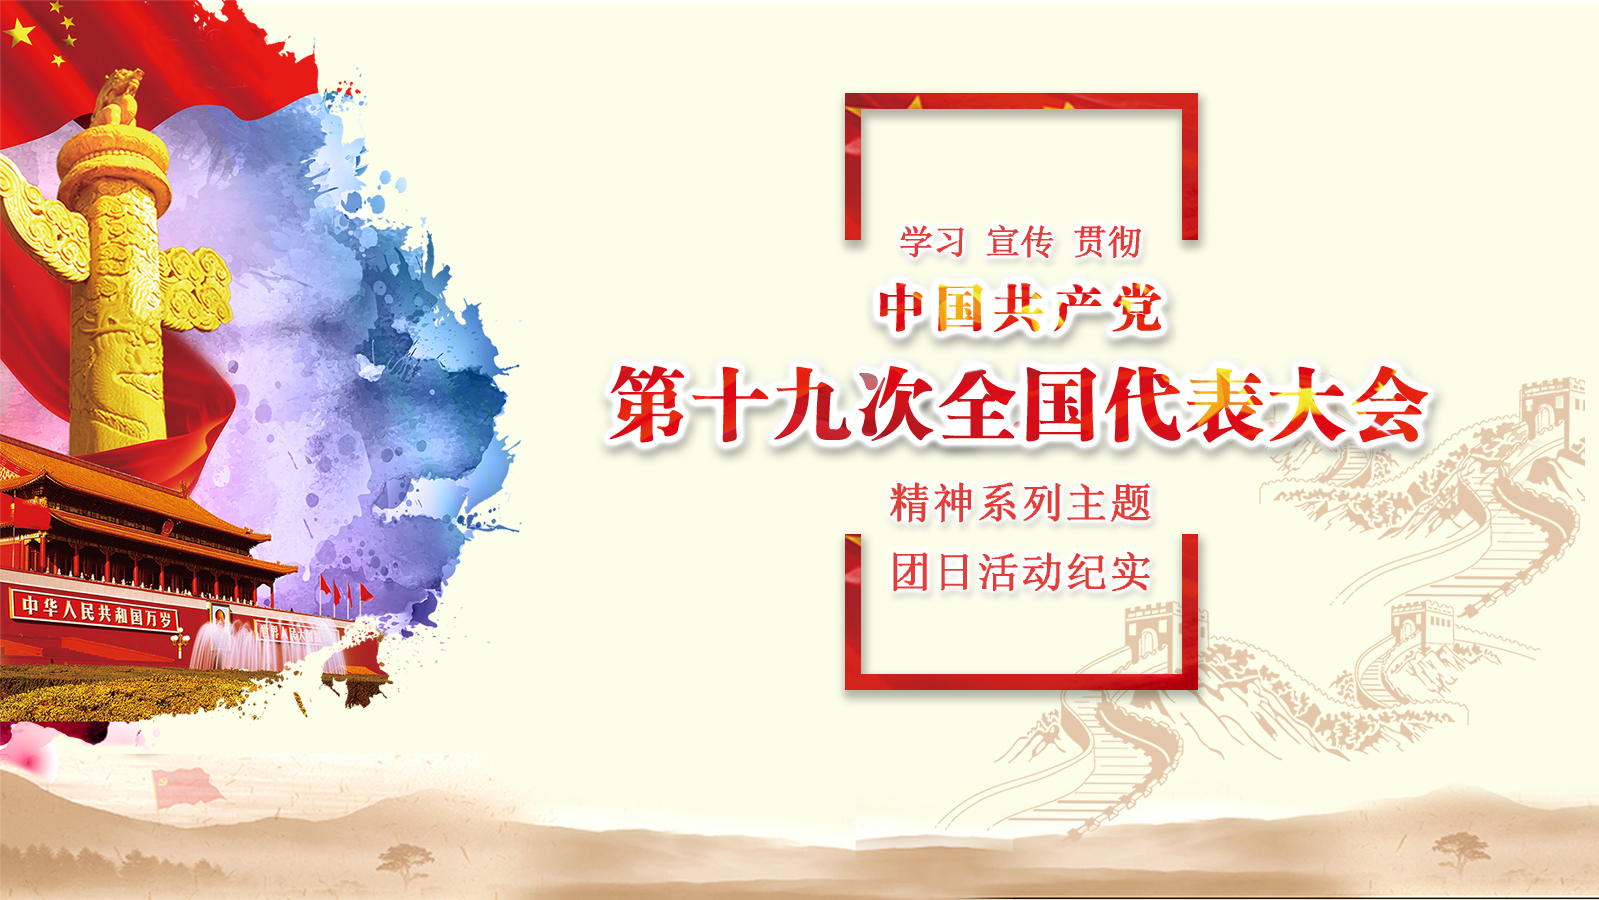
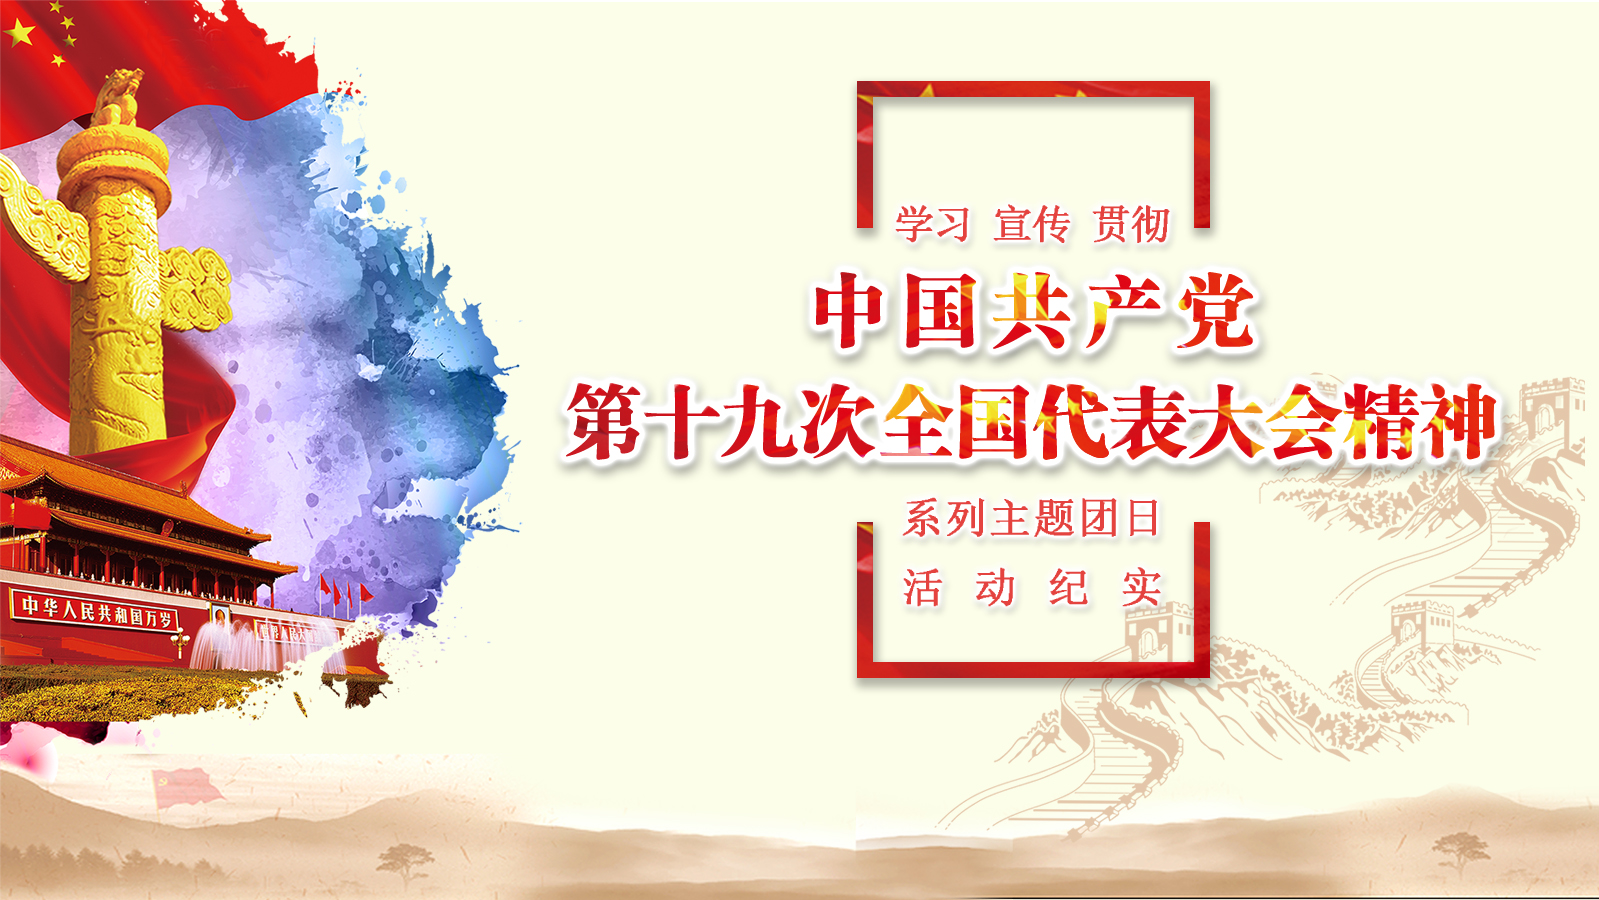
[FIX]修改首页照片

Changed region(s): [[0.3371, 0.0622, 0.95, 0.7778]]

diff --git a/src/main/resources/static/index.html b/src/main/resources/static/index.html
@@ -20,7 +20,7 @@
 
       </div>
       <div class="adv" style="overflow:hidden"><!--添加overflow，后续自己添在css中-->
-        <img src="http://oy5ic3yhc.bkt.clouddn.com/FjhSz0Tc4OQxunE8FyZZFk9ZPYuD" alt="">
+        <img src="http://oy5ic3yhc.bkt.clouddn.com/FgIEgTWABooLmNoVGQS-NMVcr6rs" alt="">
       </div>
     	<div class="content" style="overflow:hidden"><!--添加overflow，后续自己添在css中-->
     		<div class="section">
